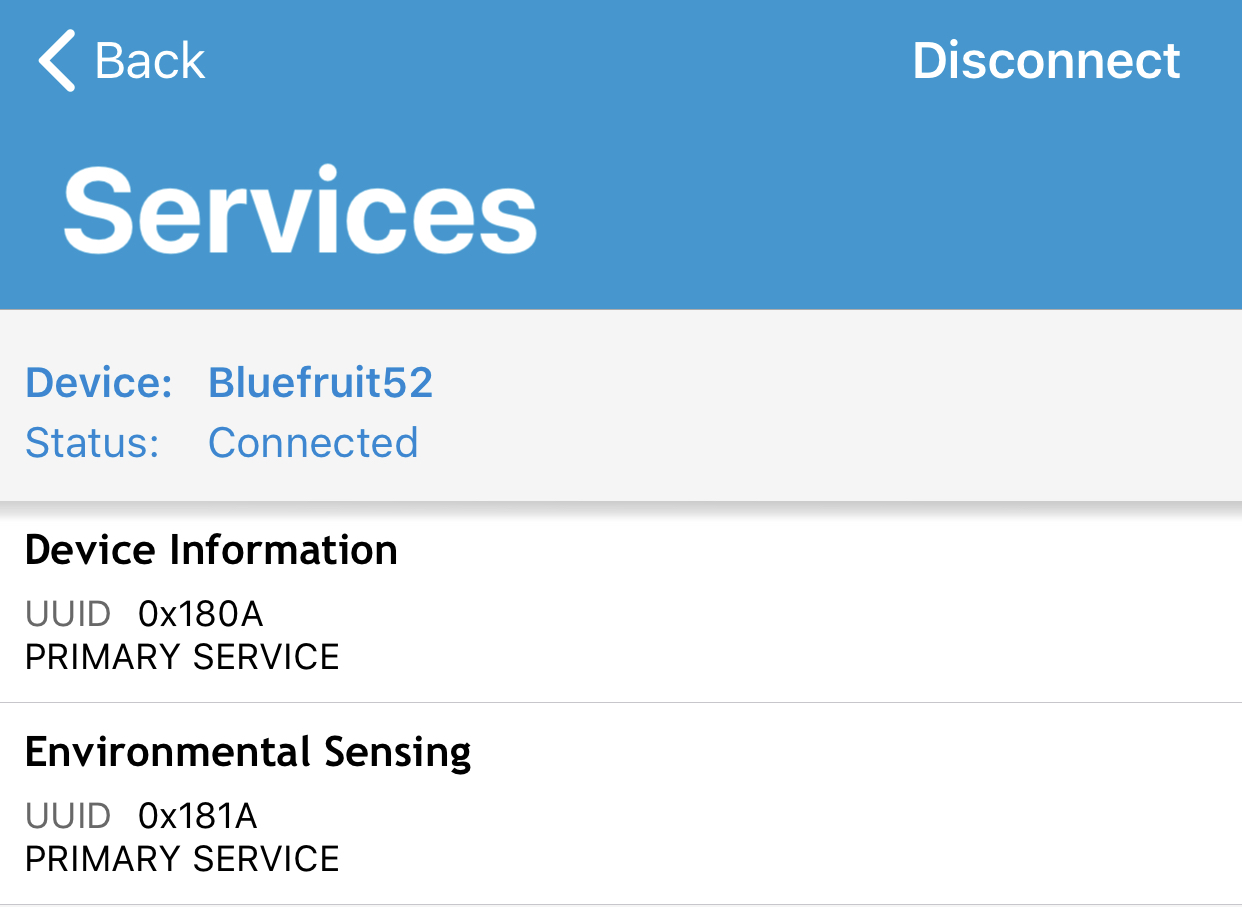
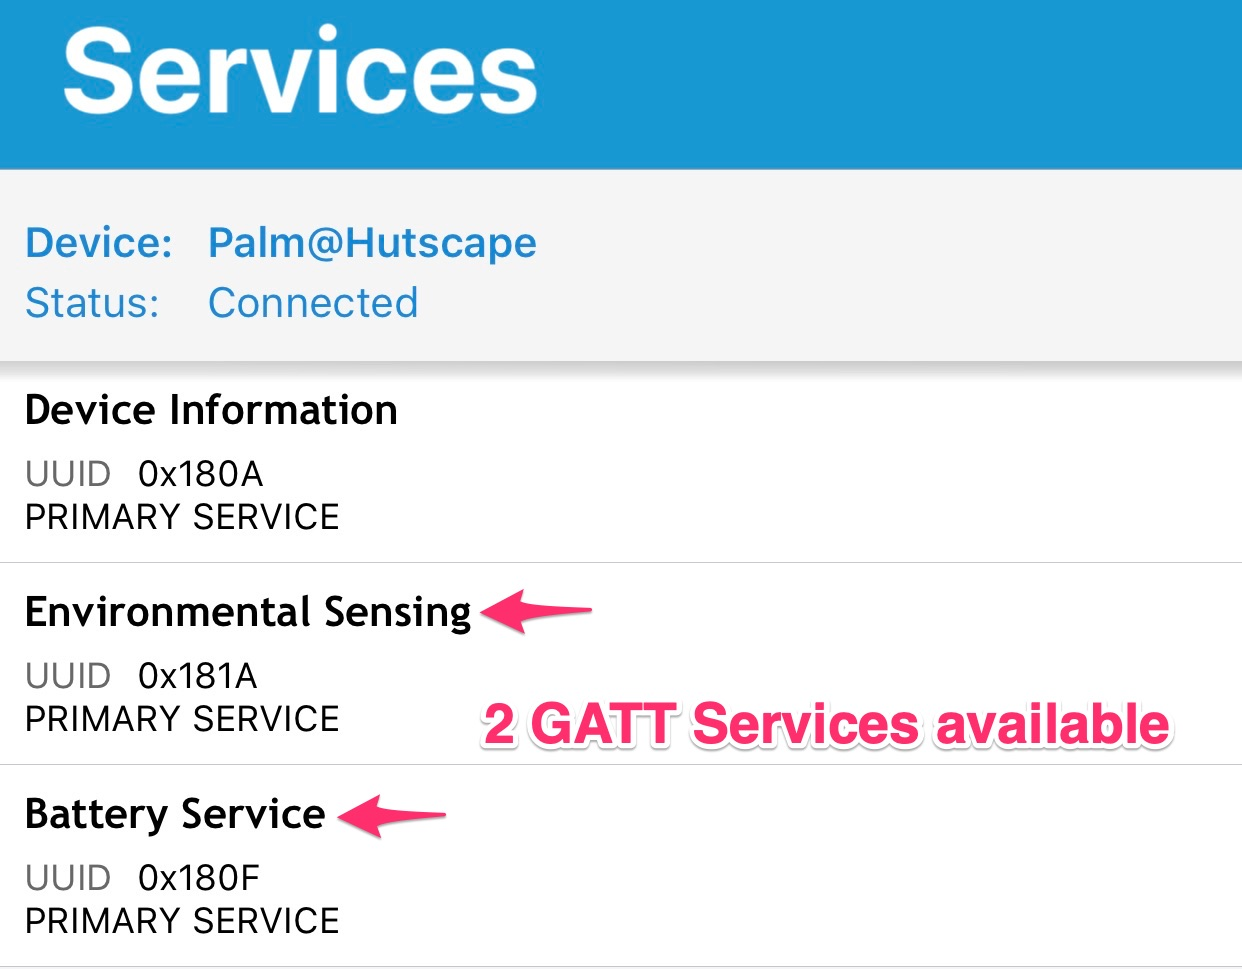
[design] Display GATT Service and characteristics for battery level

diff --git a/software.md b/software.md
@@ -4,12 +4,13 @@ title: Software
 permalink: /software
 sequence: 3
 features:
-  - detail: Read UV Index with the on-board sensor <code>VEML6075</code>
+  - detail: Read UV Index with the on-board sensor <code>VEML6075</code> and the battery level
   - detail: Display the UV Index color code with the on-board RGB LED
   - detail: Power on/off the entire device with the on-board power switch
   - detail: Start or stop BLE advertising with the on-board BLE switch
   - detail: Connect via the USB cable to flash the firmware or charge the LiPo
   - detail: Hang it like as keychain using the <code>M6</code> drill hole
+  - detail: Display UV Index and Battery level as a GATT service and characteristic on a BLE client such as the iPhone or Web BLE on Chrome browser
 ---
 
 <section class="section is-small">
@@ -19,9 +20,18 @@ features:
     <p class="subtitle is-4">Use the <a href="https://itunes.apple.com/sg/app/nrf-connect/id1054362403?mt=8">nRF Connect iPhone app</a> to view the exact UV Index levels.</p>
 
     <div class="columns is-desktop">
-      <div class="column"><img src="{{site.url}}/images/software/ios-detect.jpg" alt="iOS detect"></div>
-      <div class="column"><img src="{{site.url}}/images/software/ios-services.jpg" alt="iOS detect"></div>
-      <div class="column"><img src="{{site.url}}/images/software/ios-characteristics.jpg" alt="iOS detect"></div>
+      <div class="column">
+        <a href="{{site.url}}/images/software/ios-detect.jpg"><img src="{{site.url}}/images/software/ios-detect.jpg" alt="iOS detect BLE device"></a>
+      </div>
+      <div class="column">
+        <a href="{{site.url}}/images/software/ios-services.jpg"><img src="{{site.url}}/images/software/ios-services.jpg" alt="iOS detect GATT services"></a>
+      </div>
+      <div class="column">
+        <a href="{{site.url}}/images/software/ios-characteristics-batt.jpg"><img src="{{site.url}}/images/software/ios-characteristics-batt.jpg" alt="iOS GATT Characteristics Battery level"></a>
+      </div>
+      <div class="column">
+        <a href="{{site.url}}/images/software/ios-characteristics-uv.jpg"><img src="{{site.url}}/images/software/ios-characteristics-uv.jpg" alt="iOS GATT Characteristics UV Index"></a>
+      </div>
     </div>
   </div>
 </section>

diff --git a/index.md b/index.md
@@ -23,7 +23,7 @@ sequence: 1
           <div class="tile is-parent">
             <article class="tile is-child notification">
               <p class="title">Step 2</p>
-              <p class="subtitle">Flash the firmware onto the <code>nRF52</code> board to display UV Index</p>
+              <p class="subtitle">Flash the firmware onto the <code>nRF52</code> board to display UV Index and battery level.</p>
               <a href="images/software/console.png"><img src="images/software/console.png" alt="Serial console for firmware"></a>
             </article>
           </div>
@@ -31,10 +31,10 @@ sequence: 1
             <article class="tile is-child notification">
               <div class="content">
                 <p class="title">Step 3</p>
-                <p class="subtitle">See the UV, temperature and humidity values values being displayed on the <a href="https://itunes.apple.com/sg/app/nrf-connect/id1054362403?mt=8">nRF Connect iPhone app</a></p>
+                <p class="subtitle">See the UV and battery level values on the <a href="https://itunes.apple.com/sg/app/nrf-connect/id1054362403?mt=8">nRF Connect iPhone app</a></p>
                 <img src="images/software/ios-detect.jpg" alt="iOS app detect">
                 <br><br>
-                <img src="images/software/ios-characteristics.jpg" alt="iOS app characteristics">
+                <img src="images/software/ios-services.jpg" alt="iOS app GATT Services">
               </div>
             </article>
           </div>
